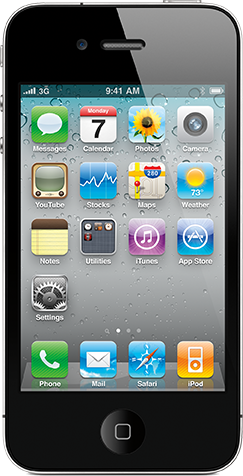
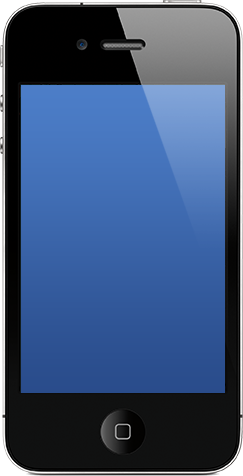
Updated iphone post style

diff --git a/css/shared/iphone.css b/css/shared/iphone.css
@@ -3,6 +3,7 @@
   width: 243px;
   height: 476px;
   position: relative;
+  z-index: 100;
 }
 
 .iphone .screen_mask {
@@ -22,4 +23,14 @@
 .iphone .view_container img {
   display: block;
   float: left;
+}
+
+.iphone .reflection {
+  width: 205px;
+  height: 308px;
+  position: absolute;
+  left: 0;
+  top: 0;
+  background: url(/images/shared/iphone_reflection.png) no-repeat;
+  z-index: 100;
 }
